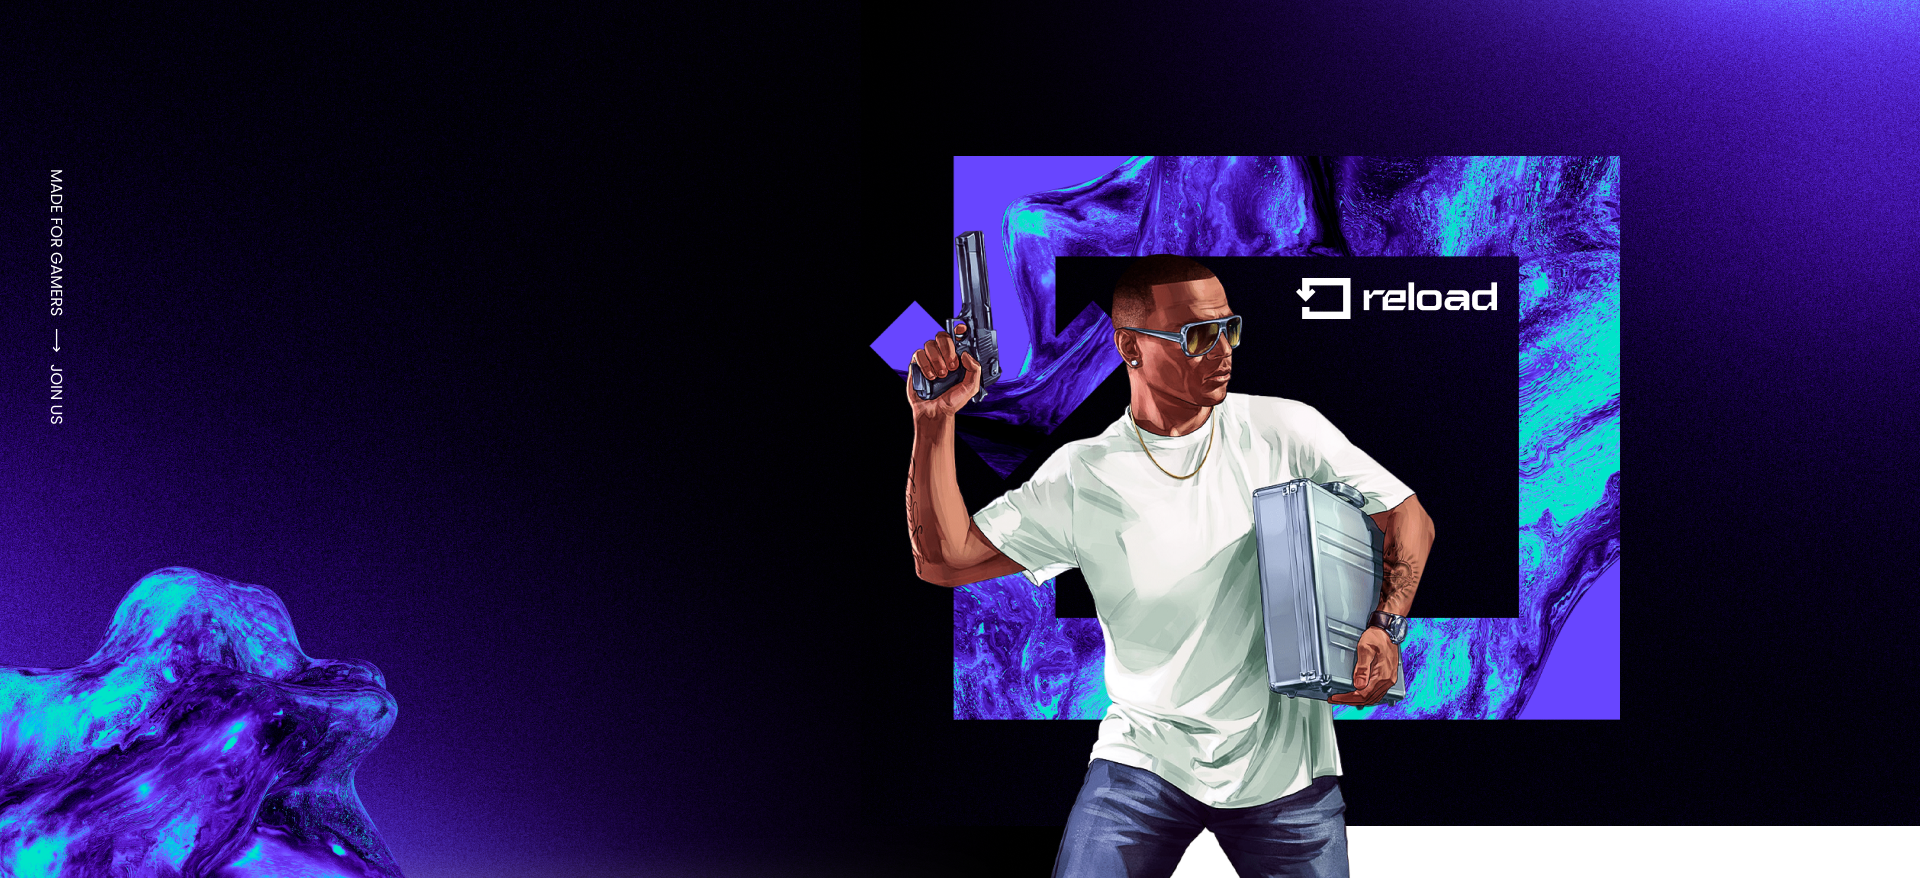
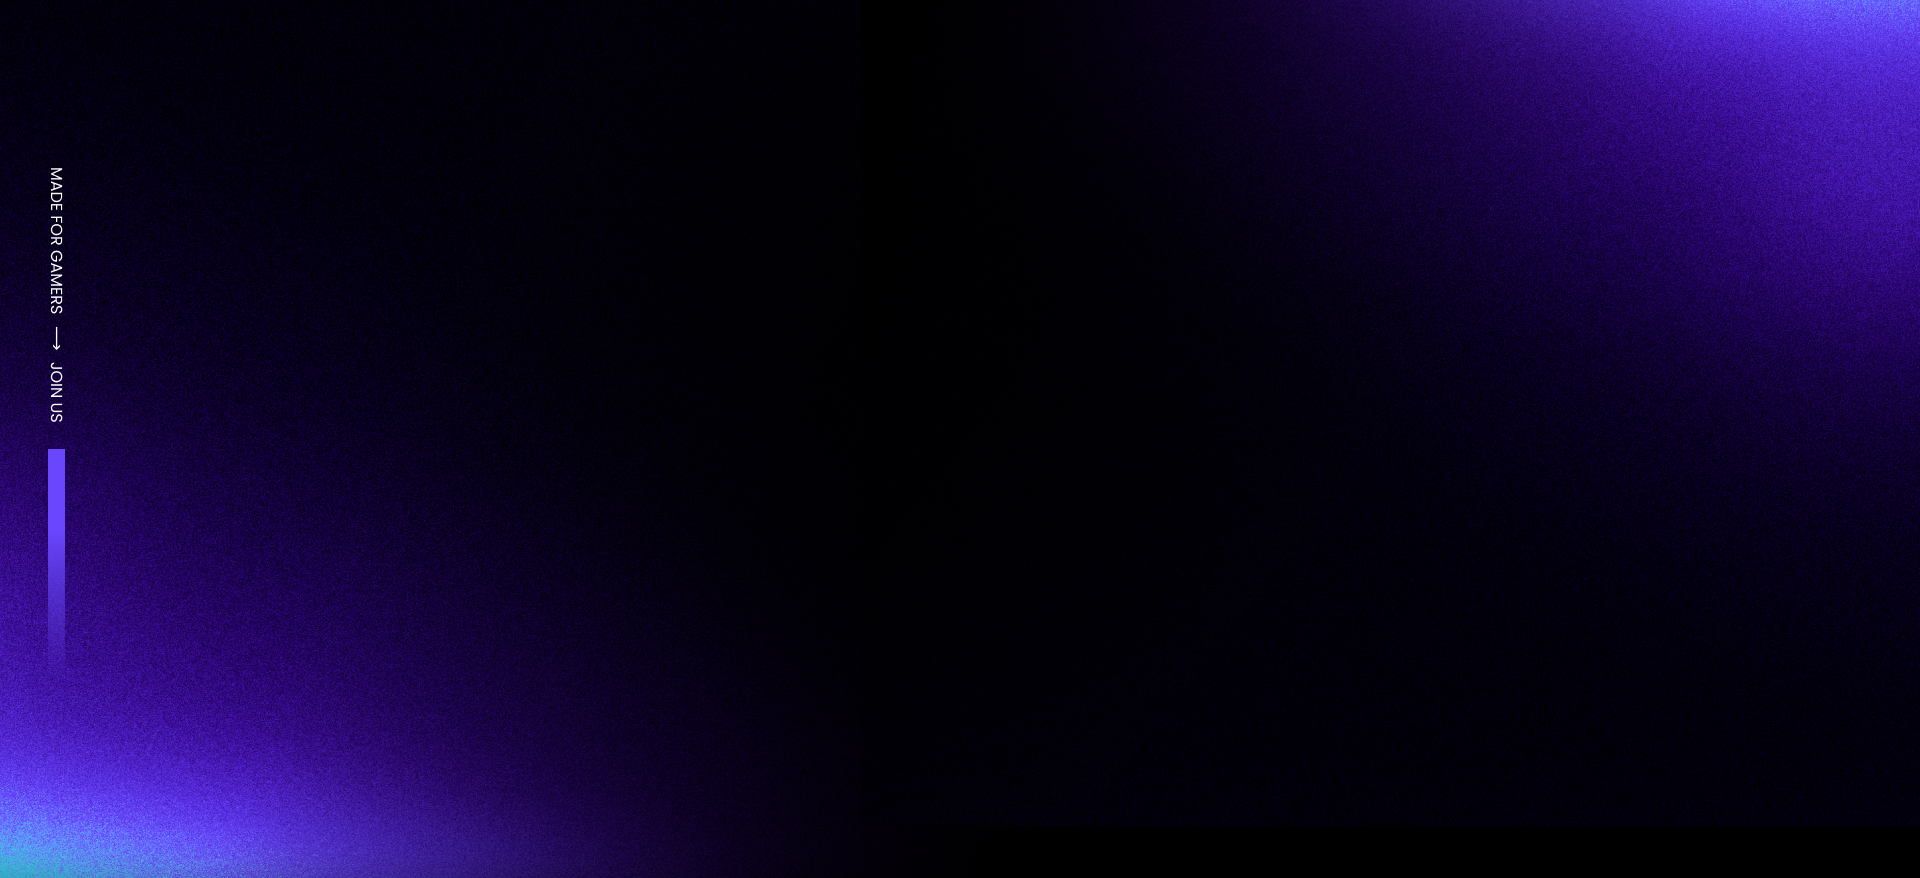
apply style to home view

diff --git a/src/views/common/Home.jsx b/src/views/common/Home.jsx
@@ -4,6 +4,8 @@ import { useNavigate } from 'react-router-dom'
 
 import { Container } from '@components'
 
+import heroImg from '@assets/images/home_hero.png'
+import logo from '@assets/images/logo_type_white.svg'
 import style from './Home.module.css'
 
 export default function HomeView() {
@@ -15,10 +17,24 @@ export default function HomeView() {
   })
 
   return (
-    <Container
-      align="center"
-      justify="center"
-      className={style.container}
-    ></Container>
+    <Container align="center" justify="center" className={style.container}>
+      <Container className={style.heroImg} align="center" justify="end">
+        <img src={heroImg} alt="Personagem do GTA 5" />
+      </Container>
+
+      <Container column className={style.hero} justify="center" gap={25}>
+        <Container className={style.brand}>
+          <img src={logo} alt="Reload" />
+        </Container>
+
+        <Container className={style.description}>
+          <p>
+            Lorem ipsum dolor sit amet, consectetur adipiscing elit. Maecenas ut
+            tellus ex. Sed in orci risus. Morbi qui lacus eget tellus tristique
+            congue.
+          </p>
+        </Container>
+      </Container>
+    </Container>
   )
 }

diff --git a/public/index.html b/public/index.html
@@ -13,6 +13,7 @@
             content="Web site created using create-react-app"
         />
         <link rel="apple-touch-icon" href="%PUBLIC_URL%/logo192.png" />
+        <link rel="preconnect" href="https://fonts.googleapis.com"><link rel="preconnect" href="https://fonts.gstatic.com" crossorigin><link href="https://fonts.googleapis.com/css2?family=Poppins&display=swap" rel="stylesheet">
         <!--
 		manifest.json provides metadata used when your web app is installed on a
 		user's mobile device or desktop. See https://developers.google.com/web/fundamentals/web-app-manifest/

diff --git a/src/views/common/Home.module.css b/src/views/common/Home.module.css
@@ -5,21 +5,23 @@
     background-size: cover;
     color: white;
     height: 100vh;
-    padding: 0 100px;
 }
 
-.steamSignin {
-    margin-top: 20px;
+.heroImg {
+    margin-top: auto;
 }
 
-.fakeSigninForm {
-    border-top: 1px solid rgba(255, 255, 255, 0.1);
-    margin-top: 30px;
-    padding-top: 30px;
+.hero {
+    max-width: 650px;
+    margin-left: 50px;
 }
 
-@media (max-width: 600px) {
-    .container {
-        padding: 0 40px;
-    }
+.brand {
+    max-width: 305px;
+}
+
+.description {
+    max-width: 310px;
+    font-size: 16px;
+    line-height: 28px;
 }

diff --git a/src/index.css b/src/index.css
@@ -47,9 +47,9 @@ html {
 *::before,
 *::after {
     box-sizing: inherit;
-    font-family: 'system-ui', '-apple-system', 'BlinkMacSystemFont', 'Segoe UI',
-        'Roboto', 'Oxygen', 'Ubuntu', 'Cantarell', 'Fira Sans', 'Droid Sans',
-        'Helvetica Neue', sans-serif, 'System Default', serif;
+    font-family: 'Poppins', 'system-ui', '-apple-system', 'BlinkMacSystemFont',
+        'Segoe UI', 'Roboto', 'Oxygen', 'Ubuntu', 'Cantarell', 'Fira Sans',
+        'Droid Sans', 'Helvetica Neue', sans-serif, 'System Default', serif;
 }
 
 img,
